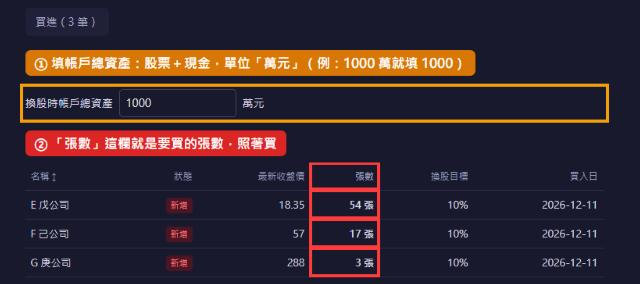
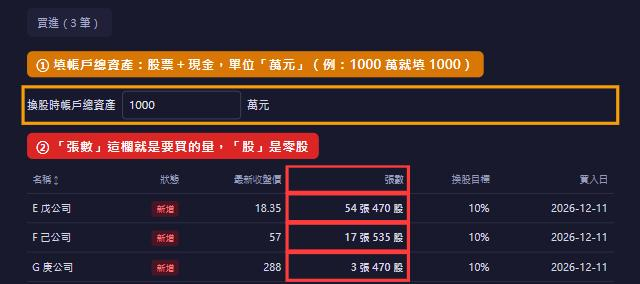
Count target lots down to odd shares
Whole lots alone left most of a small account in cash: with 500k on the
200-yuan page only one of four picks fit a 50k budget, so 160k sat idle
while the backtest holds 10% in each. Targets are now shares, shown as
lots plus odd shares, and the notes say odd lots trade intraday rather
than at the opening auction. Tutorial images and its example follow.

diff --git a/watch2/index.html b/watch2/index.html
@@ -1,6 +1,6 @@
 <!doctype html>
 <html lang="zh-Hant"><head><meta charset="utf-8"><meta name="viewport" content="width=device-width,initial-scale=1">
-<title>每月換股策略（固定日期・10 檔）</title><link rel="stylesheet" href="../assets/dashboard.css?v=81ba638b2d04"></head>
+<title>每月換股策略（固定日期・10 檔）</title><link rel="stylesheet" href="../assets/dashboard.css?v=e5ad65de41aa"></head>
 <body><main class="container">
 <button class="help-btn" id="help-open" type="button">教學</button>
 <h1 id="title"></h1><div class="sub" id="rules"></div><div class="sub" id="date"></div><div class="sub" id="updated"></div>
@@ -22,8 +22,8 @@
 <h2 id="help-title">換股日只要 3 步</h2>
 <ol class="help-steps">
 <li><b>賣出：表上的股票全部賣掉。</b>手上有幾張就賣幾張。<img src="../assets/tutorial/1-sell.png" alt="賣出表：全部賣掉" loading="lazy"></li>
-<li><b>買進：先填帳戶總資產，再照「張數」買。</b>總資產＝股票＋現金，單位是萬元（1000 萬就填 1000）。<img src="../assets/tutorial/2-buy.png" alt="填好總資產後，買進表顯示要買的張數" loading="lazy"></li>
-<li><b>持倉：把手上的張數調成「目標張數」。</b>手上比較多就賣掉多的，一樣就不動，比較少就補買。例：目標 6 張、手上 8 張，就賣 2 張。<img src="../assets/tutorial/3-hold.png" alt="持倉表的目標張數" loading="lazy"></li>
+<li><b>買進：先填帳戶總資產，再照「張數」買。</b>總資產＝股票＋現金，單位是萬元（1000 萬就填 1000）。後面寫「股」的是零股，要在券商 App 選「盤中零股」下單。<img src="../assets/tutorial/2-buy.png" alt="填好總資產後，買進表顯示要買的張數" loading="lazy"></li>
+<li><b>持倉：把手上的張數調成「目標張數」。</b>手上比較多就賣掉多的，一樣就不動，比較少就補買。例：目標 6 張 247 股、手上 8 張，就賣 1 張 753 股。<img src="../assets/tutorial/3-hold.png" alt="持倉表的目標張數" loading="lazy"></li>
 </ol><p class="note">圖中的股票是範例。</p></div></div>
[1 lines of base64/hex data omitted]
-<script src="../assets/allocation.js?v=81ba638b2d04"></script><script src="../assets/dashboard.js?v=81ba638b2d04"></script></body></html>
+<script src="../assets/allocation.js?v=e5ad65de41aa"></script><script src="../assets/dashboard.js?v=e5ad65de41aa"></script></body></html>

diff --git a/2026/index.html b/2026/index.html
@@ -1,6 +1,6 @@
 <!doctype html>
 <html lang="zh-Hant"><head><meta charset="utf-8"><meta name="viewport" content="width=device-width,initial-scale=1">
-<title>每月換股策略（200 元・獲利再投入）</title><link rel="stylesheet" href="../assets/dashboard.css?v=81ba638b2d04"></head>
+<title>每月換股策略（200 元・獲利再投入）</title><link rel="stylesheet" href="../assets/dashboard.css?v=e5ad65de41aa"></head>
 <body><main class="container">
 <button class="help-btn" id="help-open" type="button">教學</button>
 <h1 id="title"></h1><div class="sub" id="rules"></div><div class="sub" id="date"></div><div class="sub" id="updated"></div>
@@ -22,8 +22,8 @@
 <h2 id="help-title">換股日只要 3 步</h2>
 <ol class="help-steps">
 <li><b>賣出：表上的股票全部賣掉。</b>手上有幾張就賣幾張。<img src="../assets/tutorial/1-sell.png" alt="賣出表：全部賣掉" loading="lazy"></li>
-<li><b>買進：先填帳戶總資產，再照「張數」買。</b>總資產＝股票＋現金，單位是萬元（1000 萬就填 1000）。<img src="../assets/tutorial/2-buy.png" alt="填好總資產後，買進表顯示要買的張數" loading="lazy"></li>
-<li><b>持倉：把手上的張數調成「目標張數」。</b>手上比較多就賣掉多的，一樣就不動，比較少就補買。例：目標 6 張、手上 8 張，就賣 2 張。<img src="../assets/tutorial/3-hold.png" alt="持倉表的目標張數" loading="lazy"></li>
+<li><b>買進：先填帳戶總資產，再照「張數」買。</b>總資產＝股票＋現金，單位是萬元（1000 萬就填 1000）。後面寫「股」的是零股，要在券商 App 選「盤中零股」下單。<img src="../assets/tutorial/2-buy.png" alt="填好總資產後，買進表顯示要買的張數" loading="lazy"></li>
+<li><b>持倉：把手上的張數調成「目標張數」。</b>手上比較多就賣掉多的，一樣就不動，比較少就補買。例：目標 6 張 247 股、手上 8 張，就賣 1 張 753 股。<img src="../assets/tutorial/3-hold.png" alt="持倉表的目標張數" loading="lazy"></li>
 </ol><p class="note">圖中的股票是範例。</p></div></div>
 <script id="strategy-data" type="application/json">{"schema_version": 1, "strategy_version": "2026-reinvest-v3", "date": "2026-11-10", "generated_at": "2026-11-11T00:28:51.197057+08:00", "stale_after": "2026-11-12T08:00:00+08:00", "start": "2008-03-10", "selection_date": "2026-11-10", "performance": {"cagr": 0.353174079693229, "sharpe": 1.314189846978164, "max_drawdown": -0.3174262277172667, "win_rate": 0.5066079295154186, "closed_trades": 1590, "valid_closed_trades": 1589, "avg_return": 0.03901139212169176, "max_gain": 1.4019650600939682, "max_loss": -0.4312278828395434, "missing_return_trades": 1}, "yearly_returns": {"2008": 0.018610648197257884, "2009": 0.37941459670857447, "2010": 0.5228052729121193, "2011": -0.044807359497551436, "2012": 0.03629261737938494, "2013": 0.7680299428773871, "2014": -0.004392855184781941, "2015": 0.10837172205491363, "2016": 0.13899604644493957, "2017": 0.701132688525758, "2018": 0.26376617608735, "2019": 0.3593900098522931, "2020": 1.618432402823304, "2021": 0.8564125924523156, "2022": 0.057741776952789925, "2023": 0.5450747678412451, "2024": 0.378936939926225, "2025": 0.6215094572925768, "2026": 0.15966044234314714}, "monthly_returns": {"2008-01": 0.0, "2008-02": 0.0, "2008-03": 0.02712627884615393, "2008-04": 0.0598072634802731, "2008-05": 0.0032901729330812035, "2008-06": -0.04215520617249768, "2008-07": 0.015182914591634011, "2008-08": -0.01417981853520367, "2008-09": -0.022784820185584365, "2008-10": 0.00569784332657175, "2008-11": -0.015330343810022296, "2008-12": 0.0054153120953992495, "2009-01": -0.0037029743040494223, "2009-02": 0.014363705981369268, "2009-03": 0.04513899804286048, "2009-04": 0.01409788262388667, "2009-05": 0.03835146623002217, "2009-06": -0.09145800654430503, "2009-07": 0.07932415939233328, "2009-08": -0.004783513082949442, "2009-09": 0.1446608393182538, "2009-10": -0.050317508094486874, "2009-11": 0.02886136614818957, "2009-12": 0.1362853041725256, "2010-01": -0.12145154223806987, "2010-02": 0.010086231800399359, "2010-03": 0.1968621425087247, "2010-04": 0.01337604676769999, "2010-05": -0.09256519857565948, "2010-06": 0.048931439375270225, "2010-07": 0.09082052073121849, "2010-08": 0.029257833665331967, "2010-09": 0.1356787037602305, "2010-10": -0.001743199077407831, "2010-11": 0.03556596282774671, "2010-12": 0.1276904270472219, "2011-01": -0.003222182665358897, "2011-02": 0.1273941158675964, "2011-03": 0.02864660335265956, "2011-04": -0.025869710557080206, "2011-05": 0.006850646832187168, "2011-06": 0.03617294489814382, "2011-07": 0.01845116658815882, "2011-08": -0.16069369490363494, "2011-09": -0.02202166119371929, "2011-10": 0.005857162208872779, "2011-11": -0.03188405209879075, "2011-12": -0.0011904747578550534, "2012-01": -0.016481662708186295, "2012-02": 0.006972633373856674, "2012-03": 0.015476058567596596, "2012-04": -0.014411471305841306, "2012-05": -0.02133500453591597, "2012-06": 0.017815796059913236, "2012-07": 0.01340174693367402, "2012-08": 0.04944298016216986, "2012-09": 0.02317325490502742, "2012-10": -0.02946615550054643, "2012-11": -0.0014221412897712504, "2012-12": -0.004751773008617399, "2013-01": 9.444449492446161e-05, "2013-02": 0.1040619290335183, "2013-03": 0.03467615327420259, "2013-04": 0.03764286095404046, "2013-05": 0.16570000735919876, "2013-06": -0.04622872939150913, "2013-07": 0.12166077293515332, "2013-08": -0.009574339407751653, "2013-09": -0.023221532056834082, "2013-10": 0.06761672557439846, "2013-11": 0.01618286629340937, "2013-12": 0.13947567476167566, "2014-01": -0.08800504935984332, "2014-02": 0.14739420375723777, "2014-03": 0.03288032374993044, "2014-04": -0.10331941000078348, "2014-05": 0.09476281064779135, "2014-06": 0.006677375418698173, "2014-07": 0.04118955402866975, "2014-08": -0.027921846801752692, "2014-09": -0.055019329194529565, "2014-10": -0.08201146422873695, "2014-11": 0.01819257351596626, "2014-12": 0.04271040890514732, "2015-01": 0.028715137945546143, "2015-02": 0.00900574547736599, "2015-03": 0.04214695523745404, "2015-04": 0.015334369774098633, "2015-05": 0.012881413503229577, "2015-06": 0.020671041381028266, "2015-07": -0.061893272735182414, "2015-08": -0.00443763137494646, "2015-09": 0.042032626551272934, "2015-10": 0.04996343479388421, "2015-11": -0.02631448444889184, "2015-12": -0.018886398867233978, "2016-01": 0.018873001827852454, "2016-02": 0.0035274111456291557, "2016-03": 0.01816076384662879, "2016-04": -0.013841669327275041, "2016-05": 0.003336157594042044, "2016-06": 0.048251667093056394, "2016-07": 0.03175881695426064, "2016-08": 0.04419845421287483, "2016-09": -0.004889249131973417, "2016-10": -0.00764485107038404, "2016-11": 0.01177086930627369, "2016-12": -0.020022868869373323, "2017-01": 0.041772613942801184, "2017-02": 0.09336776376980627, "2017-03": -0.016093030608857917, "2017-04": -0.04708745350077359, "2017-05": -0.011774386946082016, "2017-06": -0.02553674635172487, "2017-07": 0.08609287860711845, "2017-08": 0.16543405195267002, "2017-09": 0.08878978951987948, "2017-10": 0.14132884706480842, "2017-11": 0.04277445083052411, "2017-12": 0.008487335161158738, "2018-01": 0.06684422927079381, "2018-02": -0.02751155179114495, "2018-03": 0.16290473013584728, "2018-04": -0.02055583336463429, "2018-05": 0.1254919872267004, "2018-06": 0.03633608307214953, "2018-07": -0.029836021337939722, "2018-08": 0.027615909185506382, "2018-09": -0.025023810499697152, "2018-10": -0.1068446032057675, "2018-11": 0.0341615594238589, "2018-12": 0.02124283810279337, "2019-01": 0.0533607724363101, "2019-02": 0.05159528858064899, "2019-03": 0.023418770223369023, "2019-04": 0.015934286296474864, "2019-05": -0.014914440467394985, "2019-06": -0.006115023470204095, "2019-07": 0.15577720848859222, "2019-08": 0.057385262139919124, "2019-09": -0.06783367305693411, "2019-10": 0.04493537870275288, "2019-11": 0.016824638387810564, "2019-12": -0.004014666559141844, "2020-01": -0.017955839780752436, "2020-02": -0.003899631611787302, "2020-03": -0.016803963681160106, "2020-04": 0.16686851226203436, "2020-05": 0.14375448337867258, "2020-06": 0.12573819881501413, "2020-07": 0.14780328590542635, "2020-08": 0.3168674938420697, "2020-09": -0.07323060277413673, "2020-10": 0.025560445034850998, "2020-11": 0.14720461868144707, "2020-12": 0.09949085576814043, "2021-01": 0.045873994341810276, "2021-02": 0.1609866009664791, "2021-03": 0.02097770158127421, "2021-04": 0.16696791172609338, "2021-05": -0.07974067925287465, "2021-06": 0.11286338586229094, "2021-07": -0.022522233840228223, "2021-08": -0.019292924401443035, "2021-09": -0.020579074999131253, "2021-10": 0.06630078513279813, "2021-11": 0.04439828912957067, "2021-12": 0.1983377153109942, "2022-01": -0.13958274798337122, "2022-02": 0.04108022223161223, "2022-03": 0.03294108353952385, "2022-04": 0.059308018502799875, "2022-05": 0.12570078410640217, "2022-06": -0.10083510499289194, "2022-07": -0.0008915056267865262, "2022-08": 0.11963179868584528, "2022-09": -0.05931945611696443, "2022-10": -0.07396616256763655, "2022-11": 0.06786883004728983, "2022-12": 0.024593097908497175, "2023-01": -0.01040442348021342, "2023-02": 0.1327200858860178, "2023-03": 0.08954645236675929, "2023-04": 0.11523878965180634, "2023-05": 0.062130317297380167, "2023-06": 0.08804522913405233, "2023-07": 0.01303668819769399, "2023-08": -0.062237141797905515, "2023-09": -0.006367956492512428, "2023-10": -0.015201472497978319, "2023-11": 0.06850671753419202, "2023-12": -0.011760192879883502, "2024-01": 0.16680072558375825, "2024-02": 0.08703142730063207, "2024-03": -0.025205350870537213, "2024-04": 0.02190634572306771, "2024-05": 0.0705562447792003, "2024-06": 0.07775561469442205, "2024-07": 0.0694949303861585, "2024-08": -0.008426734589593088, "2024-09": 0.038101285521839, "2024-10": -0.040207417935950174, "2024-11": -0.023915693741800137, "2024-12": -0.08284315384399998, "2025-01": -0.06244152386599433, "2025-02": 0.10186520722554748, "2025-03": -0.06197301637827324, "2025-04": -0.0077471908459296746, "2025-05": 0.002313261415967105, "2025-06": 0.006930179270600245, "2025-07": 0.040588780725515194, "2025-08": 0.23263162086607436, "2025-09": 0.030926248816388613, "2025-10": 0.0650207441834616, "2025-11": 0.03622243862316643, "2025-12": 0.14498829862920037, "2026-01": 0.08375340829509614, "2026-02": -0.01827732059302367, "2026-03": 0.03828094661651815, "2026-04": 0.12169385138130262, "2026-05": 0.1856915802235959, "2026-06": -0.010424918179192, "2026-07": -0.1891656514022697, "2026-08": 0.10614684554342313, "2026-09": -0.029073764101265276, "2026-10": -0.10431766921713403, "2026-11": 0.02262561194757562}, "holdings": [{"stock_id": "1815", "name": "富喬", "entry_date": "2026-10-13T00:00:00", "exit_date": null, "entry_sig_date": "2026-10-12T00:00:00", "exit_sig_date": "2026-11-10T00:00:00", "return": -0.016787692307692392, "position": 0.1, "trade_price@entry_date": 130.0, "trade_price@exit_date": 134.5, "close": 128.0}, {"stock_id": "2340", "name": "台亞", "entry_date": "2026-10-13T00:00:00", "exit_date": null, "entry_sig_date": "2026-10-12T00:00:00", "exit_sig_date": "2026-11-10T00:00:00", "return": -0.20929956225680935, "position": 0.1, "trade_price@entry_date": 51.4, "trade_price@exit_date": 38.75, "close": 40.7}, {"stock_id": "2607", "name": "榮運", "entry_date": "2026-10-13T00:00:00", "exit_date": null, "entry_sig_date": "2026-10-12T00:00:00", "exit_sig_date": "2026-11-10T00:00:00", "return": -0.008347530329289365, "position": 0.1, "trade_price@entry_date": 57.7, "trade_price@exit_date": 56.0, "close": 57.3}, {"stock_id": "3016", "name": "嘉晶", "entry_date": "2026-10-13T00:00:00", "exit_date": null, "entry_sig_date": "2026-10-12T00:00:00", "exit_sig_date": "2026-11-10T00:00:00", "return": -0.3295282142857141, "position": 0.1, "trade_price@entry_date": 175.0, "trade_price@exit_date": 117.5, "close": 117.5}, {"stock_id": "3287", "name": "廣寰科", "entry_date": "2026-10-13T00:00:00", "exit_date": null, "entry_sig_date": "2026-10-12T00:00:00", "exit_sig_date": "2026-11-10T00:00:00", "return": 0.5568334645669282, "position": 0.1, "trade_price@entry_date": 50.8, "trade_price@exit_date": 88.6, "close": 79.2}, {"stock_id": "3564", "name": "其陽", "entry_date": "2026-10-13T00:00:00", "exit_date": null, "entry_sig_date": "2026-10-12T00:00:00", "exit_sig_date": "2026-11-10T00:00:00", "return": -0.2591672073342738, "position": 0.1, "trade_price@entry_date": 70.9, "trade_price@exit_date": 51.6, "close": 52.6}, {"stock_id": "3597", "name": "映興", "entry_date": "2026-10-13T00:00:00", "exit_date": null, "entry_sig_date": "2026-10-12T00:00:00", "exit_sig_date": "2026-11-10T00:00:00", "return": -0.23052193930041154, "position": 0.1, "trade_price@entry_date": 48.6, "trade_price@exit_date": 34.5, "close": 37.45}, {"stock_id": "5230", "name": "雷笛克光學", "entry_date": "2026-10-13T00:00:00", "exit_date": null, "entry_sig_date": "2026-10-12T00:00:00", "exit_sig_date": "2026-11-10T00:00:00", "return": 0.21045338899803534, "position": 0.1, "trade_price@entry_date": 25.45, "trade_price@exit_date": 29.3, "close": 30.85}, {"stock_id": "6505", "name": "台塑化", "entry_date": "2026-10-13T00:00:00", "exit_date": null, "entry_sig_date": "2026-10-12T00:00:00", "exit_sig_date": "2026-11-10T00:00:00", "return": -0.15988431924882618, "position": 0.1, "trade_price@entry_date": 106.5, "trade_price@exit_date": 88.5, "close": 89.6}, {"stock_id": "6834", "name": "天二科技", "entry_date": "2026-10-13T00:00:00", "exit_date": null, "entry_sig_date": "2026-10-12T00:00:00", "exit_sig_date": "2026-11-10T00:00:00", "return": -0.33718746644295283, "position": 0.1, "trade_price@entry_date": 149.0, "trade_price@exit_date": 101.0, "close": 98.9}], "pending": [{"stock_id": "1416", "name": "廣豐", "entry_date": null, "exit_date": null, "entry_sig_date": "2026-11-10T00:00:00", "exit_sig_date": null, "return": null, "position": null, "trade_price@entry_date": 18.9, "trade_price@exit_date": 18.9, "close": 18.35}, {"stock_id": "2412", "name": "中華電", "entry_date": null, "exit_date": null, "entry_sig_date": "2026-11-10T00:00:00", "exit_sig_date": null, "return": null, "position": null, "trade_price@entry_date": 156.5, "trade_price@exit_date": 156.5, "close": 159.5}, {"stock_id": "2468", "name": "華經", "entry_date": null, "exit_date": null, "entry_sig_date": "2026-11-10T00:00:00", "exit_sig_date": null, "return": null, "position": null, "trade_price@entry_date": 63.7, "trade_price@exit_date": 63.7, "close": 66.0}, {"stock_id": "6112", "name": "邁達特", "entry_date": null, "exit_date": null, "entry_sig_date": "2026-11-10T00:00:00", "exit_sig_date": null, "return": null, "position": null, "trade_price@entry_date": 52.4, "trade_price@exit_date": 52.4, "close": 57.0}], "recent_sells": [{"stock_id": "2606", "name": "裕民", "entry_date": "2026-09-11T00:00:00", "exit_date": "2026-10-13T00:00:00", "entry_sig_date": "2026-09-10T00:00:00", "exit_sig_date": "2026-10-12T00:00:00", "return": -0.008425918545454492, "position": 0.1, "trade_price@entry_date": 77.0, "trade_price@exit_date": 76.8, "close": 69.8}, {"stock_id": "2617", "name": "台航", "entry_date": "2026-09-11T00:00:00", "exit_date": "2026-10-13T00:00:00", "entry_sig_date": "2026-09-10T00:00:00", "exit_sig_date": "2026-10-12T00:00:00", "return": -0.050424694627242084, "position": 0.1, "trade_price@entry_date": 33.45, "trade_price@exit_date": 31.95, "close": 30.15}, {"stock_id": "3219", "name": "倚強科", "entry_date": "2026-09-11T00:00:00", "exit_date": "2026-10-13T00:00:00", "entry_sig_date": "2026-09-10T00:00:00", "exit_sig_date": "2026-10-12T00:00:00", "return": 0.4160947376635178, "position": 0.1, "trade_price@entry_date": 86.0, "trade_price@exit_date": 122.5, "close": 109.0}], "latest_selection": {"picks": ["1416", "6112", "2468", "2412"], "yoy": {"1416": 45.45, "6112": 27.07, "2468": 20.0, "2412": 13.44}, "source": "original_revenue_gate", "recorded_at": "2026-11-10T21:05:37.394594+08:00", "forced": false, "execution_date": "2026-11-11"}, "allocation_prices": {"1416": {"close": 18.35, "name": ""}, "6112": {"close": 57.0, "name": ""}, "2468": {"close": 66.0, "name": ""}, "2412": {"close": 159.5, "name": ""}}, "limitations": ["沿用 200 元版選股名單、日期與手續費；全段歷史改以換股時總資產配置，獲利再投入。", "歷史名單含原版重算及鎖定結果，不代表當時均有保存；2026 年 8 月的兩次換股照原紀錄保留。", "與 600 元版同用 FinLab 開盤價模擬及缺價處理，未額外模擬滑價、未成交或整張限制。"], "metric_sources": {"cagr": "report.get_stats().cagr", "sharpe": "report.get_stats().daily_sharpe; riskfree_rate=0.02", "max_drawdown": "report.get_stats().max_drawdown", "win_rate": "closed trades with return > 0", "yearly_monthly": "report.get_stats().return_table", "trades": "report.get_trades(); kept-stock splits re-priced open-to-open (return_native keeps FinLab value)"}, "config": {"strategy_version": "2026-reinvest-v3", "title": "每月換股策略（200 元・獲利再投入）", "rules": ["股價 ≤ 200 元｜5 日均成交量 > 50 萬股｜排除金融保險業", "每月 10 號後等營收條件到齊；未齊最多順延 5 個交易日，名單鎖定後下一交易日開盤換股", "最多 10 檔，每檔換股目標 10%；續留股也重新配置，不足額留現金，獲利再投入"], "detail": "近 2 個月平均營收達近 12 個月最高；近 5 天至少 2 天達 200 日新高。符合條件且營收年增率為正，依年增率取前 10 檔。保留原版等營收、鎖名單及無合格名單不換股的行為；資金配置與 600 元版一致。沒有另加停損。", "engine_label": "FinLab 原生回測", "has_native_report": true, "allocation": {"mode": "rebalance", "capital_label": "換股時帳戶總資產", "weight": 0.1, "fee_buy": 0.001425, "fee_sell": 0.001425, "tax_sell": 0.003, "budget_includes_fee": true}}}</script>
-<script src="../assets/allocation.js?v=81ba638b2d04"></script><script src="../assets/dashboard.js?v=81ba638b2d04"></script></body></html>
+<script src="../assets/allocation.js?v=e5ad65de41aa"></script><script src="../assets/dashboard.js?v=e5ad65de41aa"></script></body></html>

diff --git a/dashboard_shared/dashboard.js b/dashboard_shared/dashboard.js
@@ -51,7 +51,7 @@ const allocationConfig=config.allocation;
 document.getElementById('capital-label').textContent=allocationConfig.capital_label;
 document.getElementById('allocation-note').textContent=allocationConfig.mode==='keep'
  ?'輸入原始投入本金，以每檔初始本金 10% 的股款估算新建倉張數。已持有的續留股維持原張數，不照此表增減；獲利不會自動加大新倉。參考收盤價不等於實際成交價。'
- :'輸入換股時帳戶總資產，每檔以 10% 含買入手續費估算整張目標。續留股也調回目標；實際買賣張數需自行扣除現有持股。參考收盤價不等於實際成交價。';
+ :'輸入換股時帳戶總資產，每檔以 10% 含買入手續費估算目標張數，不足一張的部分用零股補。續留股也調回目標；實際買賣張數需自行扣除現有持股。零股要用盤中零股下單，成交價會跟開盤價有些差距；參考收盤價也不等於實際成交價。';
 document.getElementById('strategy-detail').textContent=`${config.detail} 夏普使用每日報酬及年無風險利率 2%。年度與月度報酬來自同一條淨值。交易筆數、勝率及單筆極值只計已平倉交易。買賣手續費各 ${pct(allocationConfig.fee_buy,4).replace('+','')}，賣出證交稅 ${pct(allocationConfig.tax_sell,1).replace('+','')}。`;
 document.querySelectorAll('button.sort').forEach(b=>b.onclick=()=>{const body=b.closest('table').tBodies[0];const direction=b.dataset.desc==='1'?-1:1;b.dataset.desc=direction===1?'1':'0';[...body.rows].sort((a,c)=>direction*a.dataset.id.localeCompare(c.dataset.id,'zh-TW',{numeric:true})).forEach(r=>body.append(r));});
 document.getElementById('capital').addEventListener('input',e=>{
@@ -61,9 +61,9 @@ document.getElementById('capital').addEventListener('input',e=>{
  const byId=new Map([...d.holdings,...d.pending].map(r=>[r.stock_id,r]));
  const stocks=d.latest_selection.picks.map(id=>{const held=byId.get(id),quote=d.allocation_prices?.[id];return {stock_id:id,name:held?.name||quote?.name||'',close:quote?.close??held?.close};});
  const result=StrategyAllocation.allocate(capital,stocks,allocationConfig);
- const lotsById=new Map(result.rows.map(r=>[r.stock_id,r.lots]));
- document.querySelectorAll('.buy-shares').forEach(cell=>{const lots=lotsById.get(cell.dataset.stockId);cell.textContent=lots==null?'缺參考價':`${lots} 張`;});
- const rows=result.rows.map(r=>`<tr><td>${esc(r.stock_id)} ${esc(r.name)}</td><td>${num(r.budget)}</td><td>${num(r.close)}</td><td>${r.lots===null?'缺參考價':`${r.lots} 張`}</td></tr>`);
- box.innerHTML=`<table><thead><tr><th>股票</th><th>${allocationConfig.budget_includes_fee?'每檔預算（含費）':'每檔股款上限'}</th><th>參考價</th><th>${allocationConfig.mode==='keep'?'新建倉參考':'整張目標'}</th></tr></thead><tbody>${rows.join('')}</tbody></table>`;
- summary.textContent=`${allocationConfig.mode==='keep'?'若這次全部新建倉：':''}估計使用 ${num(result.used)} 元（含買入手續費），剩餘現金 ${num(result.remaining)} 元。買不起一張或不足十檔的資金保留，不集中到其他股票。${result.missingPrice?' 有股票缺參考價，合計尚未包含該股。':''}`;
+ const sharesById=new Map(result.rows.map(r=>[r.stock_id,r.shares])), lotText=StrategyAllocation.lotText;
+ document.querySelectorAll('.buy-shares').forEach(cell=>{cell.textContent=lotText(sharesById.get(cell.dataset.stockId));});
+ const rows=result.rows.map(r=>`<tr><td>${esc(r.stock_id)} ${esc(r.name)}</td><td>${num(r.budget)}</td><td>${num(r.close)}</td><td>${lotText(r.shares)}</td></tr>`);
+ box.innerHTML=`<table><thead><tr><th>股票</th><th>${allocationConfig.budget_includes_fee?'每檔預算（含費）':'每檔股款上限'}</th><th>參考價</th><th>${allocationConfig.mode==='keep'?'新建倉參考':'目標張數'}</th></tr></thead><tbody>${rows.join('')}</tbody></table>`;
+ summary.textContent=`${allocationConfig.mode==='keep'?'若這次全部新建倉：':''}估計使用 ${num(result.used)} 元（含買入手續費），剩餘現金 ${num(result.remaining)} 元。不足十檔的資金留現金，不集中到其他股票。${result.missingPrice?' 有股票缺參考價，合計尚未包含該股。':''}`;
 });

diff --git a/dashboard_shared/allocation.js b/dashboard_shared/allocation.js
@@ -1,4 +1,4 @@
-/* Shared whole-lot estimate. Strategy settings supply sizing and fee differences. */
+/* Shared share-count estimate: whole lots plus odd lots, so each stock reaches its target like the backtest. */
 (function(root){
   'use strict';
   function allocate(capital,stocks,settings){
@@ -6,15 +6,21 @@
     let remaining=capital;
     const rows=stocks.map(stock=>{
       const price=Number(stock.close),budget=capital*settings.weight;
-      if(!Number.isFinite(price)||price<=0) return {...stock,budget,lots:null,cost:null};
-      const shareCost=price*1000,lotCost=shareCost*(1+settings.fee_buy);
-      const lots=Math.max(0,Math.min(Math.floor(budget/(settings.budget_includes_fee?lotCost:shareCost)),Math.floor((remaining+1e-8)/lotCost)));
-      const cost=lots*lotCost;
+      if(!Number.isFinite(price)||price<=0) return {...stock,budget,shares:null,cost:null};
+      const shareCost=price*(1+settings.fee_buy);
+      const shares=Math.max(0,Math.min(Math.floor(budget/(settings.budget_includes_fee?shareCost:price)),Math.floor((remaining+1e-8)/shareCost)));
+      const cost=shares*shareCost;
       remaining-=cost;
-      return {...stock,budget,lots,cost};
+      return {...stock,budget,shares,cost};
     });
-    return {rows,used:capital-remaining,remaining,missingPrice:rows.some(r=>r.lots===null)};
+    return {rows,used:capital-remaining,remaining,missingPrice:rows.some(r=>r.shares===null)};
   }
-  if(typeof module!=='undefined')module.exports={allocate};
-  else root.StrategyAllocation={allocate};
+  /* 2720 -> "2 張 720 股"; 6000 -> "6 張"; 756 -> "756 股". */
+  function lotText(shares){
+    if(shares==null) return '缺參考價';
+    const lots=Math.floor(shares/1000),odd=shares%1000;
+    return lots&&odd?`${lots} 張 ${odd} 股`:lots?`${lots} 張`:`${odd} 股`;
+  }
+  if(typeof module!=='undefined')module.exports={allocate,lotText};
+  else root.StrategyAllocation={allocate,lotText};
 })(typeof globalThis!=='undefined'?globalThis:this);

diff --git a/dashboard_shared/template.html b/dashboard_shared/template.html
@@ -22,8 +22,8 @@
 <h2 id="help-title">換股日只要 3 步</h2>
 <ol class="help-steps">
 <li><b>賣出：表上的股票全部賣掉。</b>手上有幾張就賣幾張。<img src="../assets/tutorial/1-sell.png" alt="賣出表：全部賣掉" loading="lazy"></li>
-<li><b>買進：先填帳戶總資產，再照「張數」買。</b>總資產＝股票＋現金，單位是萬元（1000 萬就填 1000）。<img src="../assets/tutorial/2-buy.png" alt="填好總資產後，買進表顯示要買的張數" loading="lazy"></li>
-<li><b>持倉：把手上的張數調成「目標張數」。</b>手上比較多就賣掉多的，一樣就不動，比較少就補買。例：目標 6 張、手上 8 張，就賣 2 張。<img src="../assets/tutorial/3-hold.png" alt="持倉表的目標張數" loading="lazy"></li>
+<li><b>買進：先填帳戶總資產，再照「張數」買。</b>總資產＝股票＋現金，單位是萬元（1000 萬就填 1000）。後面寫「股」的是零股，要在券商 App 選「盤中零股」下單。<img src="../assets/tutorial/2-buy.png" alt="填好總資產後，買進表顯示要買的張數" loading="lazy"></li>
+<li><b>持倉：把手上的張數調成「目標張數」。</b>手上比較多就賣掉多的，一樣就不動，比較少就補買。例：目標 6 張 247 股、手上 8 張，就賣 1 張 753 股。<img src="../assets/tutorial/3-hold.png" alt="持倉表的目標張數" loading="lazy"></li>
 </ol><p class="note">圖中的股票是範例。</p></div></div>
 <script id="strategy-data" type="application/json">__PAYLOAD_JSON__</script>
 <script src="../assets/allocation.js?v=__ASSET_VERSION__"></script><script src="../assets/dashboard.js?v=__ASSET_VERSION__"></script></body></html>

diff --git a/dashboard_shared/README.md b/dashboard_shared/README.md
@@ -2,7 +2,7 @@
 
 `performance.py` 用 FinLab 的 `metrics_from_nav` 計算完整淨值的 CAGR、每日夏普及最大回撤；年、月報酬採 FinLab 隨附的 `PerformanceStats`。原生 report 的輸出會核對為相同數字。交易卡片只使用已平倉紀錄。
 
-`template.html`、`dashboard.js`、`dashboard.css`、`allocation.js` 各只有一份。右上「教學」說明層寫在 `template.html`，圖片在 `tutorial/`（賣出、買進、持倉三步），是用假設股票（甲～庚、總資產 1,000 萬）做的範例畫面；畫面或換股規則改動時要重截。每個頁面差異集中於 `strategies.py`，本金不會改股票名單；不足一張／不足十檔的餘額不集中投入其他股票。缺價格明確顯示，不拿零元代替。
+`template.html`、`dashboard.js`、`dashboard.css`、`allocation.js` 各只有一份。右上「教學」說明層寫在 `template.html`，圖片在 `tutorial/`（賣出、買進、持倉三步），是用假設股票（甲～庚、總資產 1,000 萬）做的範例畫面；畫面或換股規則改動時要重截。每個頁面差異集中於 `strategies.py`，本金不會改股票名單；張數算到股（整張加零股），讓每檔接近 10%；不足十檔的餘額留現金，不集中投入其他股票。缺價格明確顯示，不拿零元代替。
 
 | 規則         | 2026 原版                 | watch2                           |
 | ------------ | ------------------------- | -------------------------------- |
